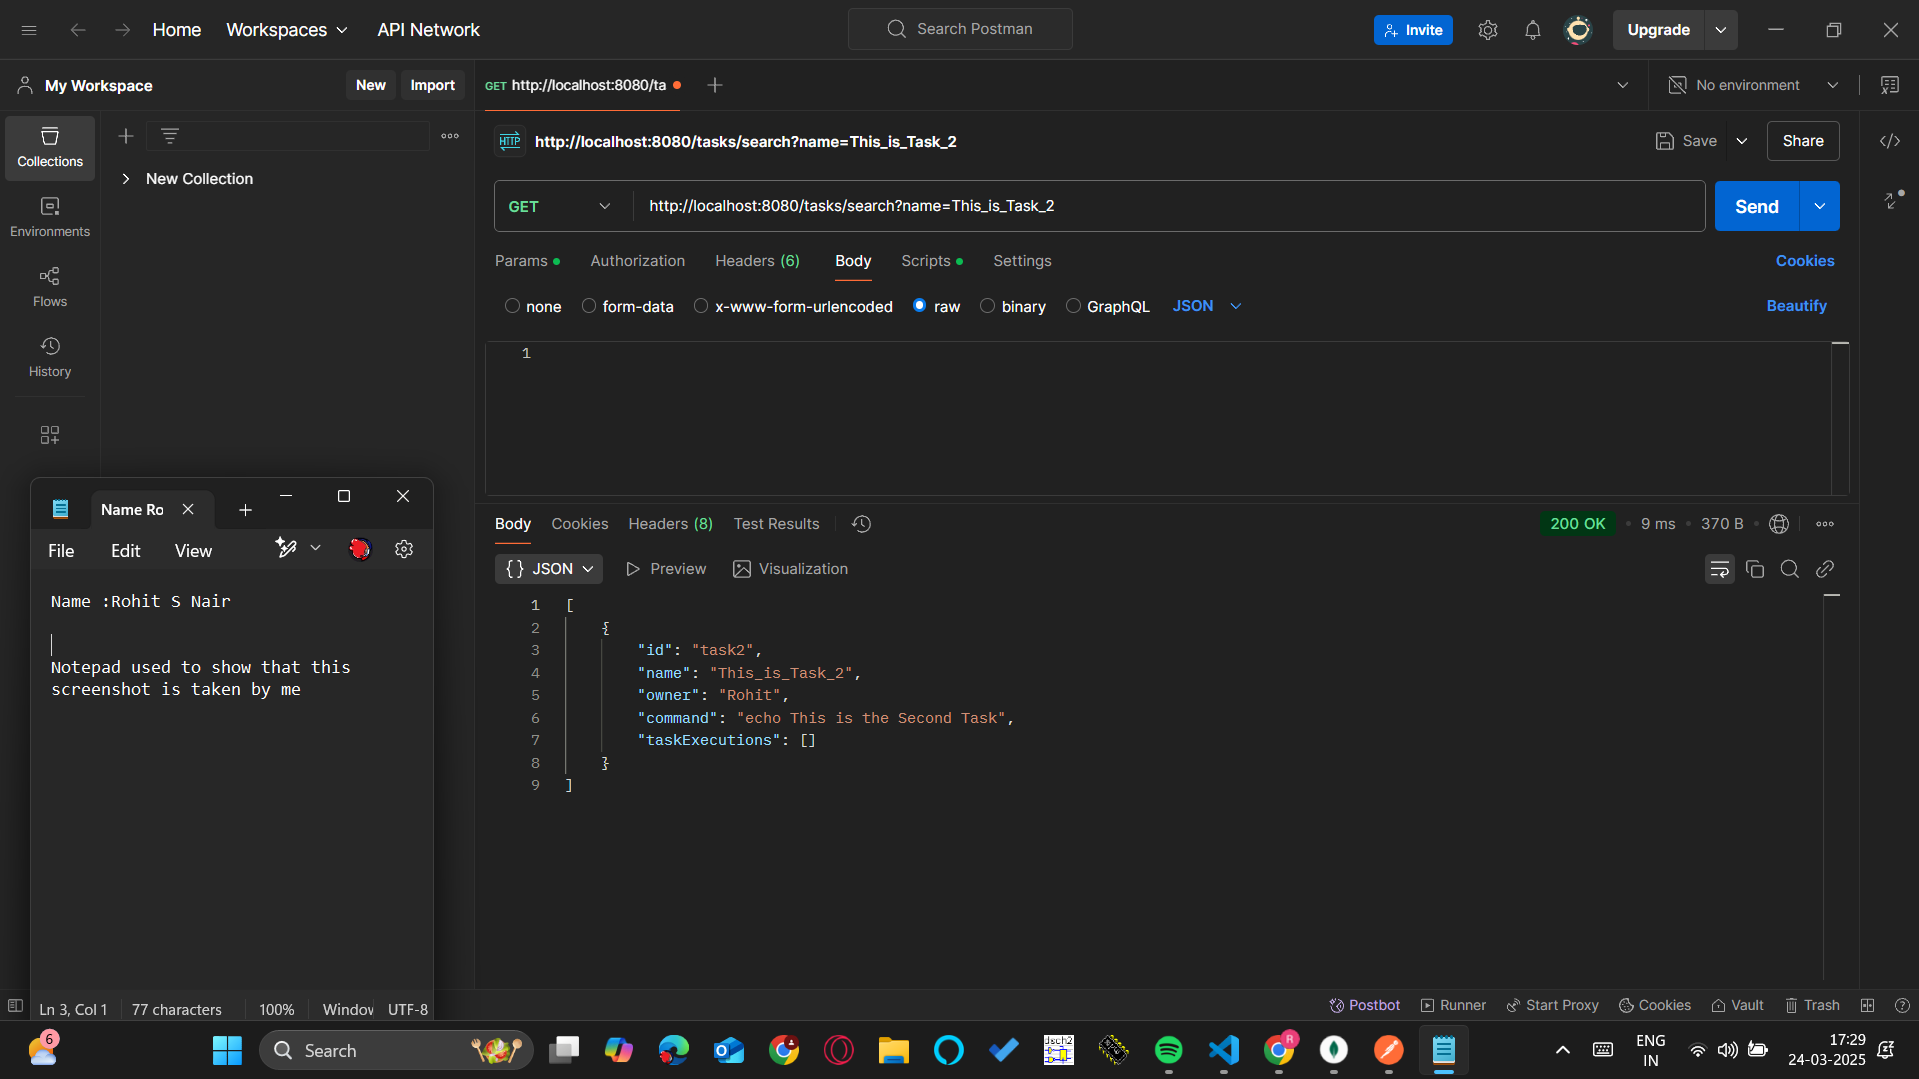
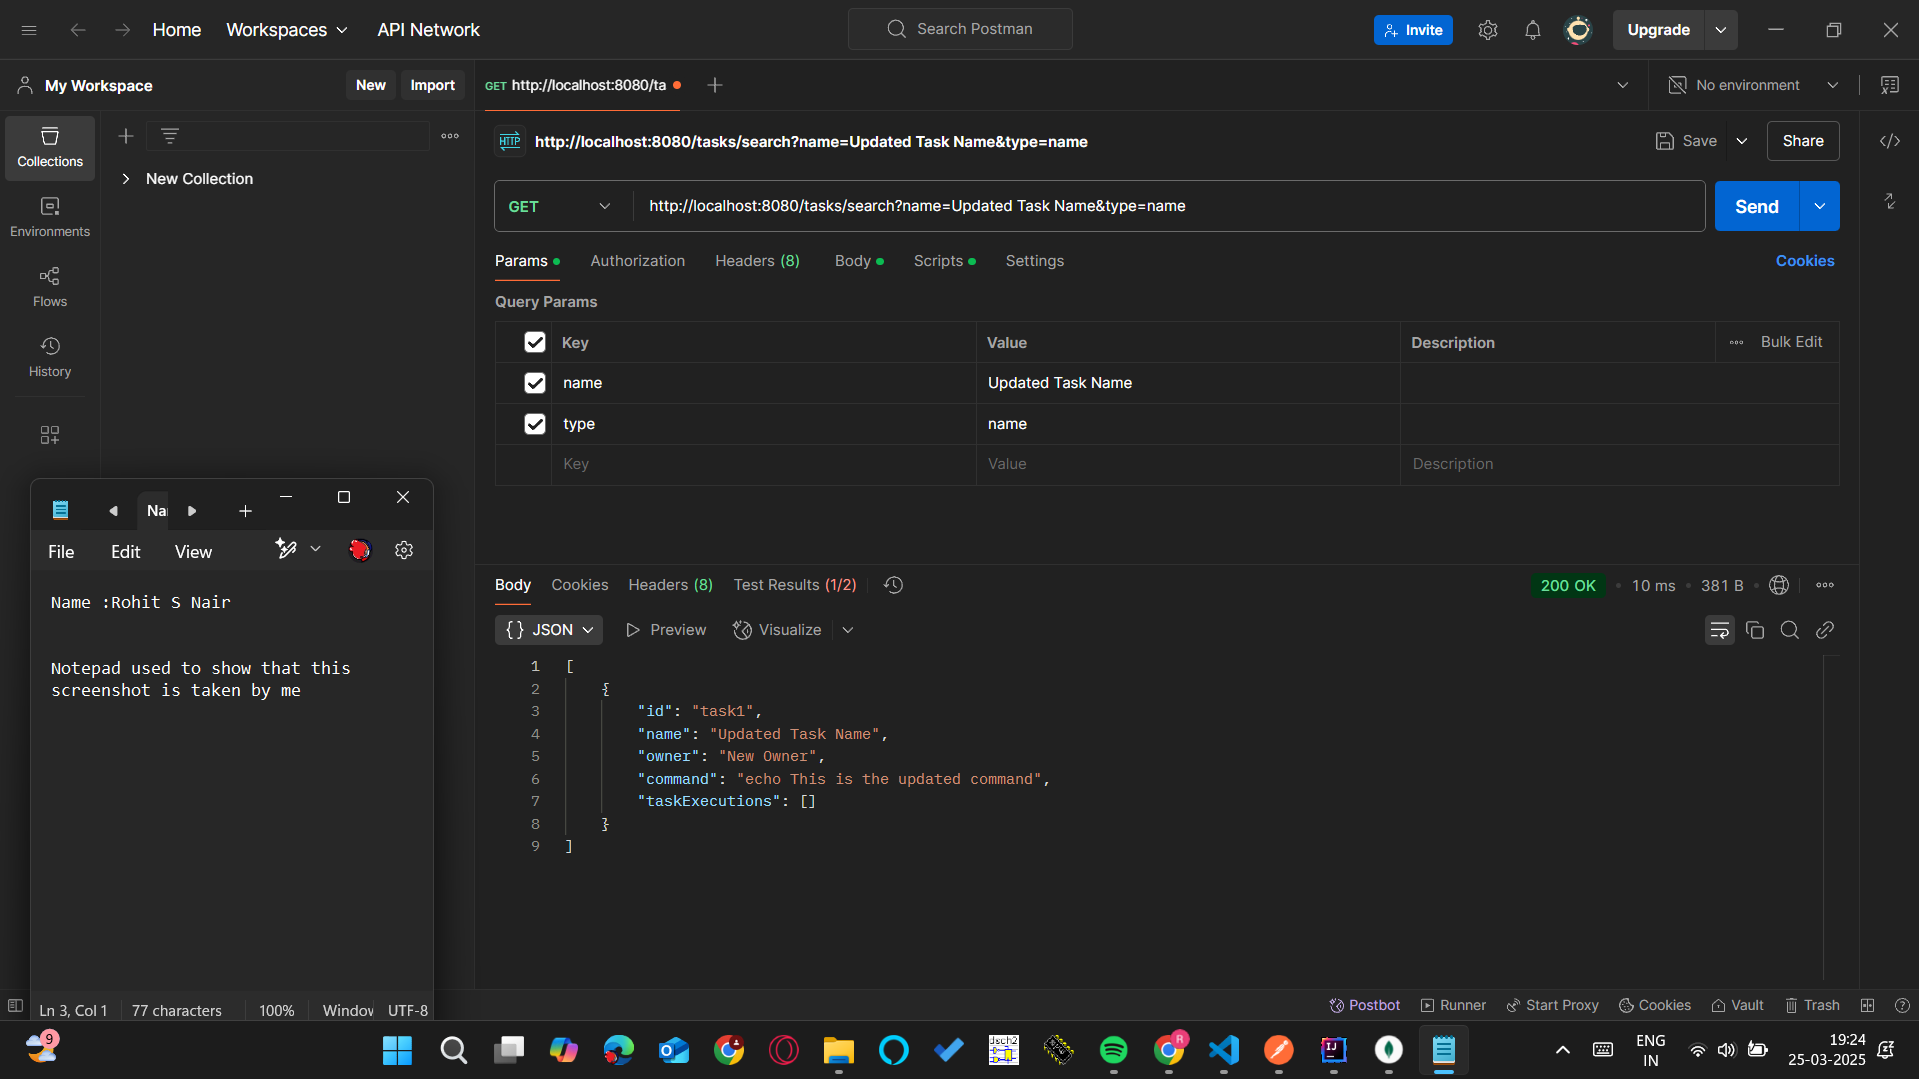
changes made

diff --git a/src/main/java/com/kaiburr_rohit/kaiburr_rohit/controller/TaskController.java b/src/main/java/com/kaiburr_rohit/kaiburr_rohit/controller/TaskController.java
@@ -75,15 +75,25 @@ public class TaskController {
         }
     }
 
-    // Search tasks by name
-    @GetMapping("/search")
-    public ResponseEntity<List<Task>> searchTasksByName(@RequestParam String name) {
-        List<Task> tasks = taskRepository.findByNameContaining(name);
-        if (tasks.isEmpty()) {
-            return ResponseEntity.notFound().build();
+  // Search tasks by name
+  @GetMapping("/search")
+  public ResponseEntity<List<Task>> searchTasksByName(@RequestParam String type , @RequestParam String name) {
+        if(type.equals("id")){
+            List<Task> tasks = taskRepository.findByIdContaining(name);
+            if (tasks.isEmpty()) {
+                return ResponseEntity.notFound().build();
+            }
+            return ResponseEntity.ok(tasks);
+        }else{
+            List<Task> tasks = taskRepository.findByNameContaining(name);
+            if (tasks.isEmpty()) {
+                return ResponseEntity.notFound().build();
+            }
+            return ResponseEntity.ok(tasks);
         }
-        return ResponseEntity.ok(tasks);
-    }
+      
+  }
+
 
     // ✅ Execute task command and store execution details
     @PutMapping("/{id}/execute")
@@ -152,21 +162,30 @@ public class TaskController {
     
     // ✅ Fetch execution history for all tasks
     @GetMapping("/history")
-    public ResponseEntity<List<TaskExecution>> getTaskHistory() {
+    public ResponseEntity<List<Map<String, Object>>> getTaskHistory() {
         List<Task> tasks = taskRepository.findAll();
-        List<TaskExecution> history = new ArrayList<>();
+        List<Map<String, Object>> history = new ArrayList<>();
 
         for (Task task : tasks) {
             if (task.getTaskExecutions() != null) {
-                history.addAll(task.getTaskExecutions());
+                for (TaskExecution execution : task.getTaskExecutions()) {
+                    Map<String, Object> taskData = new HashMap<>();
+                    taskData.put("id", task.getId());
+                    taskData.put("name", task.getName()); // ✅ Include task name
+                    taskData.put("startTime", execution.getStartTime());
+                    taskData.put("endTime", execution.getEndTime());
+                    taskData.put("output", execution.getOutput());
+                    history.add(taskData);
+                }
             }
         }
 
         if (history.isEmpty()) {
-            return ResponseEntity.noContent().build(); // 204 No Content if no history exists
+            return ResponseEntity.noContent().build();
         }
-        return ResponseEntity.ok(history); // Return list of executed task histories
+        return ResponseEntity.ok(history);
     }
+
 
     // ✅ Function to validate unsafe commands
     private boolean isUnsafeCommand(String command) {

diff --git a/src/main/java/com/kaiburr_rohit/kaiburr_rohit/repository/TaskRepository.java b/src/main/java/com/kaiburr_rohit/kaiburr_rohit/repository/TaskRepository.java
@@ -6,4 +6,5 @@ import java.util.List;
 
 public interface TaskRepository extends MongoRepository<Task, String> {
     List<Task> findByNameContaining(String name);
+    List<Task> findByIdContaining(String id);
 }

diff --git a/readme.md b/readme.md
@@ -185,6 +185,15 @@ POST /tasks
 
 📸 **Screenshot:** ![image alt](https://github.com/rohitsnair7272/kaiburr-assignment-rohit-task1/blob/master/screenshots/PostmanPOST.png?raw=true)
 
+```json
+{
+  "id": "task2",
+  "name": "This_is_Task_2",
+  "owner": "Rohit",
+  "command": "echo This is the Second Task"
+}
+```
+
 📸 **Screenshot:** ![image alt](https://github.com/rohitsnair7272/kaiburr-assignment-rohit-task1/blob/master/screenshots/PostmanPOST2.png?raw=true)
 
 ---
@@ -235,7 +244,29 @@ PUT /tasks/task1
 
 ---
 
-### **5. Delete a Task**
+### **5. Search Task by Name and Id**
+
+**Search Task By Name Endpoint:**
+
+```
+GET /tasks/search?name=Updated Task Name&type=name
+```
+
+📸 **Screenshot:** ![image alt](https://github.com/rohitsnair7272/kaiburr-assignment-rohit-task1/blob/master/screenshots/PostmanSearchName.png?raw=true)
+
+---
+
+**Search Task By Id Endpoint:**
+
+```
+GET /tasks/search?name=task2&type=id
+```
+
+📸 **Screenshot:** ![image alt](https://github.com/rohitsnair7272/kaiburr-assignment-rohit-task1/blob/master/screenshots/PostmanSearchID.png?raw=true)
+
+---
+
+### **6. Delete a Task**
 
 **Endpoint:**
 
@@ -244,18 +275,6 @@ DELETE /tasks/task1
 ```
 
 📸 **Screenshot:** ![image alt](https://github.com/rohitsnair7272/kaiburr-assignment-rohit-task1/blob/master/screenshots/PostmanDELETE.png?raw=true)
-
----
-
-### **6. Search Task by Name**
-
-**Endpoint:**
-
-```
-GET /tasks/search?name=Server
-```
-
-📸 **Screenshot:** ![image alt](https://github.com/rohitsnair7272/kaiburr-assignment-rohit-task1/blob/master/screenshots/PostmanSearchName.png?raw=true)
 
 ---
 
@@ -280,6 +299,66 @@ GET /tasks/history
 ```
 
 📸 **Screenshot:** ![image alt](https://github.com/rohitsnair7272/kaiburr-assignment-rohit-task1/blob/master/screenshots/PostmanHistory.png?raw=true)
+
+---
+
+### **Testing Unsafe Commands 🚨**
+
+This section demonstrates how the system correctly blocks unsafe commands using the validation function. Below are two test cases where the API rejects potentially harmful commands.
+
+---
+
+### **❌ Example 1: Command Injection Using `&&`**
+
+📌 **Test Input (POST request using Postman):**
+
+```json
+{
+  "id": "unsafe1",
+  "name": "Injection Test",
+  "command": "echo 'Test' && rm -rf /"
+}
+```
+
+📌 **Expected Response:**
+
+```json
+{
+  "error": "Command contains unsafe operations and has been blocked."
+}
+```
+
+📌 **Screenshot:** _(Attach a screenshot of the Postman request and response here)_  
+![Unsafe Command Test 1 - Injection](path/to/screenshot1.png)
+
+---
+
+### **❌ Example 2: Unauthorized File Access**
+
+📌 **Test Input (POST request using Postman):**
+
+```json
+{
+  "id": "unsafe2",
+  "name": "Unauthorized File Access",
+  "command": "chmod 777 /etc/passwd"
+}
+```
+
+📌 **Expected Response:**
+
+```json
+{
+  "error": "Command contains unsafe operations and has been blocked."
+}
+```
+
+📌 **Screenshot:** _(Attach a screenshot of the Postman request and response here)_  
+![Unsafe Command Test 2 - File Access](path/to/screenshot2.png)
+
+---
+
+These tests confirm that the system effectively prevents unsafe command execution, ensuring **security and reliability**. ✅
 
 ---
 
